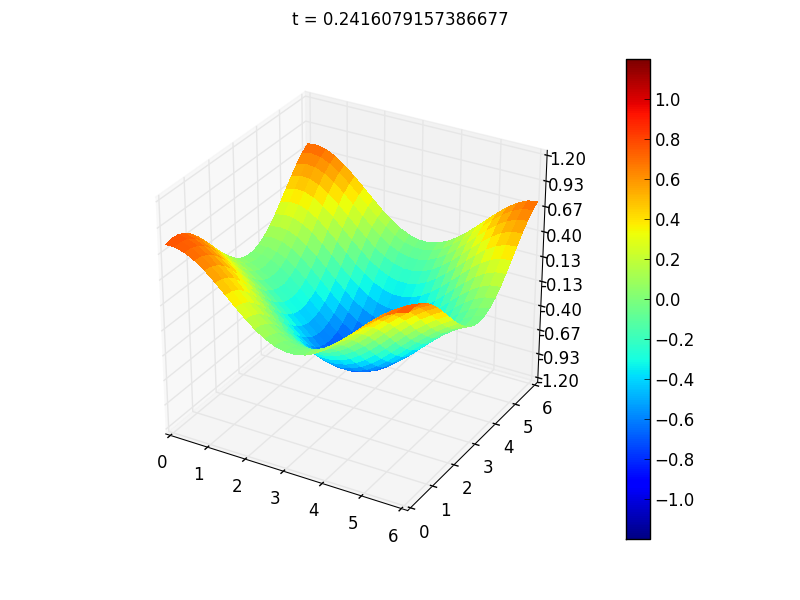
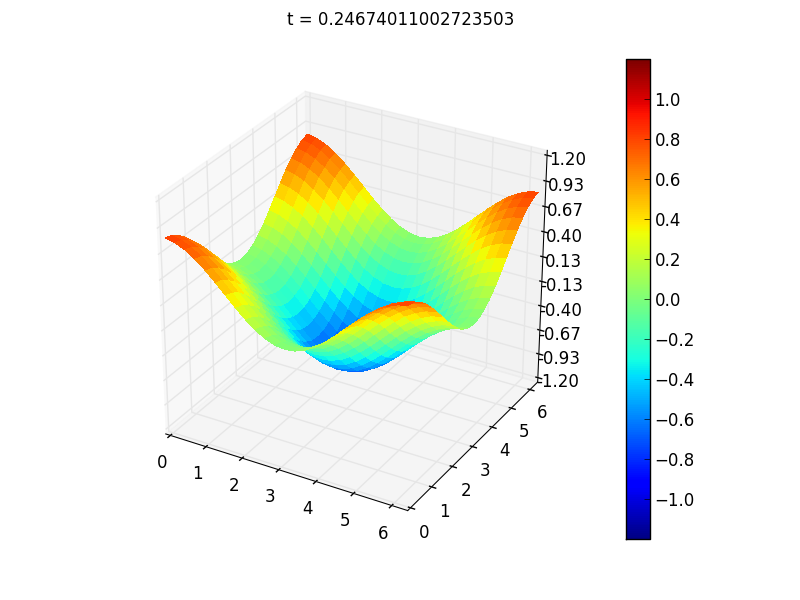
Added error analysis plus bug fixed

diff --git a/2DHeatEquation.py b/2DHeatEquation.py
@@ -15,90 +15,9 @@ import errno
 ## BC periodic
 ## IC u[x,y,0]=cos(x)+sin(y) 
 
-##
-
-directory='result'
-if not os.path.exists(directory):
-    os.makedirs(directory)
-
-##Physical parameter
-Pe = .1
-L=2*pi
-
-## Discretization parameter 
-Nx=25
-Ny=25
-dx=L/float(Nx)
-dy=L/float(Ny)
-
-## time parameters 
-t=0
-tend = 0.5
-dt = .45*min(dx,dy)**2*Pe
-
-## scheme parameters
-lx = dt/dx/dx
-ly=dt/dy/dy
-
-#plot axis
-zmin = -1.2 
-zmax = 1.2
-
-## Figure numbering 
-numb = 0
-
-#dt is such that dt/dx^2 < 0.5 
-s = 'The resolution is ' + repr(dx) + 'in the x direction and ' + repr(dy) + 'in the y direction'   + ', and the time step is ' + repr(dt) 
-print s
-
-## Initial conditions
-def iCond(x,y):
-    return .5*cos(x) + .5*cos(y)
-
-uval = iCond(0,0)
-u_arr = [[0 for i in xrange(Ny)] for i in xrange(Nx)]
-
-
-for i in range(0,Nx):
-	for j in range(0,Ny):
-    		uval = iCond(i*dx,j*dy)
-    		u_arr[i][j] = uval
-
-#plot figure
-def plotFig(u_arr,numb,t):
-	fig = plt.figure()
-	ax = fig.gca(projection='3d')
-	X = np.arange(0, L, dx)
-	Y = np.arange(0, L, dy)
-	X, Y = np.meshgrid(X, Y)
-	R = np.sqrt(X**2 + Y**2)
-	Z = np.sin(R)
-	v = np.linspace(-1.2, 1.2, 15, endpoint=True)
-	surf = ax.plot_surface(X, Y, u_arr,v, rstride=1, cstride=1,cmap=cm.jet,
- 	       linewidth=0, antialiased=False, vmin=zmin, vmax=zmax)
-	ax.set_zlim(zmin, zmax)
-	
-	ax.zaxis.set_major_locator(LinearLocator(10))
-	ax.zaxis.set_major_formatter(FormatStrFormatter('%.02f'))
-	
-	fig.colorbar(surf, ticks=[-1,-0.8,-0.6, -0.4,-0.2, 0, 0.2,0.4,0.6,0.8, 1])
-	fig.suptitle('t = '+ repr(t)) 
-	plt.savefig(directory +'/t'+'%0*d' % (3, numb)+'.png')
-
-## Construction of the update matrix
-A = [[0 for i in xrange(Ny*Nx)] for i in xrange(Nx*Ny)]
-
-for i in range(0,Nx):
-	for j in range(0,Ny):      
-		A[i*Ny+j][i*Ny+j]=1-2.*(lx+ly)
-		A[i*Ny+j][i*Ny+(j+1)%Ny] = ly
-		A[i*Ny+j][i*Ny+j-1] = ly  
-		A[i*Ny+j][((i+1)%Nx)*Ny+j] = lx
-		A[i*Ny+j][(i-1)*Ny+j] = lx
-
-print 'The matrix is generated'
-
-
+##################################################################################################################
+############################			Useful functions		      ############################
+##################################################################################################################
 ## Create a one row vector from the matrix u_arr
 def matrixToVec(u,nx,ny):
 	u_vec = [0 for i in xrange(ny*nx)]
@@ -115,28 +34,110 @@ def vecToMatrix(u,nx,ny):
 		for j in range(0,ny):
 			Umat[i][j]=u[i*ny+j]
     	return Umat
+def iCond(x,y):
+    return .5*cos(x) + .5*cos(y)
+
+
+#plot figure
+def plotFig(u_arr,numb,t):
+	fig = plt.figure()
+	ax = fig.gca(projection='3d')
+	X = np.arange(0, L+dx, dx)
+	Y = np.arange(0, L+dy, dy)
+	X, Y = np.meshgrid(X, Y)
+	R = np.sqrt(X**2 + Y**2)
+	Z = np.sin(R)
+	v = np.linspace(-1.2, 1.2, 15, endpoint=True)
+	surf = ax.plot_surface(X, Y, u_arr,v, rstride=1, cstride=1,cmap=cm.jet,
+ 	       linewidth=0, antialiased=False, vmin=zmin, vmax=zmax)
+	ax.set_zlim(zmin, zmax)
+	ax.set_xlim(0, L)
+	ax.set_ylim(0, L)
+	ax.zaxis.set_major_locator(LinearLocator(10))
+	ax.zaxis.set_major_formatter(FormatStrFormatter('%.02f'))
+	
+	fig.colorbar(surf, ticks=[-1,-0.8,-0.6, -0.4,-0.2, 0, 0.2,0.4,0.6,0.8, 1])
+	fig.suptitle('t = '+ repr(t)) 
+	plt.savefig(directory +'/t'+'%0*d' % (3, numb)+'.png')
+
+##################################################################################################################
+############################			Useful functions		      ############################
+##################################################################################################################
+
+directory='result'
+if not os.path.exists(directory):
+    os.makedirs(directory)
+
+##Physical parameter
+Pe = .1
+L=2*pi
+
+## Discretization parameter 
+Nx=25
+Ny=25
+dx=L/float(Nx-1)
+dy=L/float(Ny-1)
+
+## time parameters 
+t=0
+tend = 0.5
+## time parameters 
+dt =0.01*dx*dx
+#to make sure tend is reached and stability ok
+#dt = tend/float(int(tend/dt)+1)
+
+## scheme parameters
+# Laplacian terms
+lx = 1.*dt/dx/dx
+ly=1.*dt/dy/dy
+
+#plot axis
+zmin = -1.2 
+zmax = 1.2
+
+## Figure numbering 
+numb = 0
+## Initial conditions
+uval = iCond(0,0)
+u_arr = [[0 for i in xrange(Ny)] for i in xrange(Nx)]
+for i in range(0,Nx):
+	for j in range(0,Ny):
+    		uval = iCond(i*dx,j*dy)
+    		u_arr[i][j] = uval
+## Construction of the update matrix
+#A = [[0 for i in xrange(Ny*Nx)] for i in xrange(Nx*Ny)]
+
+#for i in range(0,Nx):
+#	for j in range(0,Ny):      
+#		A[i*Ny+j][i*Ny+j]=1-2.*(lx+ly)
+#		A[i*Ny+j][i*Ny+(j+1)%Ny] = ly
+#		A[i*Ny+j][i*Ny+(j-1)%Ny] = ly  
+#		A[i*Ny+j][((i+1)%Nx)*Ny+j] = lx
+#		A[i*Ny+j][((i-1)%Nx)*Ny+j] = lx
+
+#print 'The matrix is generated'
+
 
 step=0
 stepSize = int(tend/dt/10)
-s = 'The number of time step is  : ' + repr(stepSize)
-print s
-
-
 plotFig(u_arr,numb,t)
 s = 'Figure ' + repr(numb) + ' saved'
 print s
 #convert u_arr to u_vec
-u_vec = matrixToVec(u_arr,Nx,Ny)
+#u_vec = matrixToVec(u_arr,Nx,Ny)
 ##Time loop
 while t<=tend :
 	t=t+dt
 	#update u_vec
-	u_vec = np.dot(A,u_vec)
+	#u_vec = np.dot(A,u_vec)
+	u_old=u_arr
+	for i in range(0,Nx):
+			for j in range(0,Ny):
+				u_arr[i][j]=u_old[i][j]*(1.-2.*(lx+ly))+(u_old[(i-1)%Nx][j]+u_old[(i+1)%Nx][j])*lx+(u_old[i][(j-1)%Ny]+u_old[i][(j+1)%Ny])*ly
 	step=step+1
 	if step%stepSize == 0:
         	step = 0
         	numb = numb+1
-        	u_arr = vecToMatrix(u_vec,Nx,Ny)
         	plotFig(u_arr,numb,t)
         	s = 'Figure ' + repr(numb) + ' saved'
 		print s

diff --git a/2DHeatEquationConv.py b/2DHeatEquationConv.py
@@ -1,0 +1,164 @@
+#!/usr/local/bin/python
+from math import *
+from mpl_toolkits.mplot3d import Axes3D
+from matplotlib import cm
+from matplotlib.ticker import LinearLocator, FormatStrFormatter
+import matplotlib.pyplot as plt
+import numpy as np
+import os
+import errno
+
+## 2DAdvDiffEq.py
+## Remi Carmigniani
+## Solves the 2D Diffusion Equation :
+## pd_t u[x,y,t]  - 1/Pe(pd_xx u[x,y,t]+pd_yy u[x,y,t])  = 0 (x,y) in [0 2pi]^2
+## BC periodic
+## IC u[x,y,0]=cos(x)+cos(y) 
+## Convergence test\
+
+
+##Physical parameter
+Pe = 1.0
+L=2*pi
+
+##################################################################################################################
+############################			Useful functions		      ############################
+##################################################################################################################
+#L2 error using Simpson rule 
+def errorL2(f,dx,dy,nx,ny):
+	error = f[0][0]+f[0][ny-1]+f[nx-1][0]+f[nx-1][ny-1]
+	for j in range(1,int((ny-1)/2)+1):
+		error = error+ 4.*(f[0][2*j-1]+f[nx-1][2*j-1])
+	for j in range(1,int((ny-1)/2)):
+		error = error+ 2.*(f[0][2*j]+f[nx-1][2*j])
+	for i in range(1,int((nx-1)/2)+1):
+		error = error+ 4.*(f[2*i-1][0]+f[2*i-1][ny-1])
+	for i in range(1,int((nx-1)/2)):
+		error = error+ 2.*(f[2*i][0]+f[2*i][ny-1])
+	for i in range(1,int((nx-1)/2)+1):
+		for j in range(1,int((ny-1)/2)+1):
+			error = error + 16.*f[2*i-1][2*j-1]
+        for i in range(1,int((nx-1)/2)+1):
+		for j in range(1,int((ny-1)/2)):
+			error = error + 8.*f[2*i-1][2*j]
+        for i in range(1,int((nx-1)/2)):
+		for j in range(1,int((ny-1)/2)+1):
+			error = error + 8.*f[2*i][2*j-1]
+        for i in range(1,int((nx-1)/2)):
+		for j in range(1,int((ny-1)/2)):
+			error = error + 4.*f[2*i][2*j]		
+	return (error*1./9.*dx*dy)
+
+## Initial conditions
+def iCond(x,y):
+    return .5*cos(x) + .5*cos(y)
+
+
+#Exact solution
+def u_exact(x,y,t,Pe):
+	return exp(-t/Pe)*(.5*cos(x) + .5*cos(y))
+
+## Create a one row vector from the matrix u_arr
+def matrixToVec(u,nx,ny):
+	u_vec = [0 for i in xrange(ny*nx)]
+	for i in range(0,nx):
+		for j in range(0,ny):
+			u_vec[i*ny+j] = u[i][j]
+		
+    	return u_vec
+
+## Reverse
+def vecToMatrix(u,nx,ny):
+	Umat=[[0 for i in xrange(ny)] for i in xrange(nx)]
+	for i in range(0,nx):
+		for j in range(0,ny):
+			Umat[i][j]=u[i*ny+j]
+    	return Umat
+##################################################################################################################
+############################				End			      ############################
+##################################################################################################################
+#Simulation parameters
+tend = 0.5
+
+
+error=[]
+## Series of N to try
+N = [25,51,101]
+for k in range(0,3):
+        t=0
+	## Discretization parameter 
+	Nx=N[k]
+	Ny=N[k]
+	dx=L/float(Nx-1)
+	dy=L/float(Ny-1)
+
+	## time parameters 
+	dt =0.01*dx*dx
+	#to make sure tend is reached and stability ok
+	#dt = tend/float(int(tend/dt)+1)
+
+	## scheme parameters
+	# Laplacian terms
+	lx = 1.*dt/dx/dx
+	ly=1.*dt/dy/dy
+
+
+	## Figure numbering 
+	numb = 0
+	uval = iCond(0,0)
+	u_arr = [[0 for i in xrange(Ny)] for i in xrange(Nx)]
+	for i in range(0,Nx):
+		for j in range(0,Ny):
+    			uval = iCond(i*dx,j*dy)
+    			u_arr[i][j] = uval
+       
+	## Construction of the update matrix
+	#A = [[0 for i in xrange(Ny*Nx)] for i in xrange(Nx*Ny)]
+	
+	#for i in range(0,Nx):
+	#	for j in range(0,Ny):      
+	#		A[i*Ny+j][i*Ny+j]=1-2.*(lx+ly)
+	#		A[i*Ny+j][i*Ny+(j+1)%Ny] = ly
+	#		A[i*Ny+j][i*Ny+(j-1)%Ny] = ly  
+	#		A[i*Ny+j][((i+1)%Nx)*Ny+j] = lx
+	#		A[i*Ny+j][((i-1)%Nx)*Ny+j] = lx
+	#convert u_arr to u_vec
+	#u_vec = matrixToVec(u_arr,Nx,Ny)
+	##Time loop
+	while t<tend-1e-6 :
+		t=t+dt
+		#print repr(t)
+		#update u_vec
+		#u_vec = np.dot(A,u_vec)
+		u_old = u_arr
+		for i in range(0,Nx):
+			for j in range(0,Ny):
+				u_arr[i][j]=u_old[i][j]*(1.-2.*(lx + ly)) + (u_old[(i-1)%Nx][j]+u_old[(i+1)%Nx][j])*lx+(u_old[i][(j-1)%Ny]+u_old[i][(j+1)%Ny])*ly
+					    
+	#u_arr=vecToMatrix(u_vec,Nx,Ny)
+	##Calculate the error
+	
+	f = [[0 for i in xrange(Ny)] for i in xrange(Nx)]
+	for i in range(0,Nx):
+		for j in range(0,Ny):
+			f[i][j] =u_arr[i][j]- u_exact(i*dx,j*dy,t,Pe)
+			f[i][j]=f[i][j]**2
+
+        err=errorL2(f,dx,dy,Nx,Ny)
+	error.append(err)
+	print 'Calculate the error  for ' + repr(Nx) + ' : ' + repr(err)
+
+plt.loglog(N, error)
+plt.title('Error')
+plt.savefig('Error.png')
+
+print 'Simulation Completed without error'
+
+		
+        	
+
+       
+	
+	
+
+
